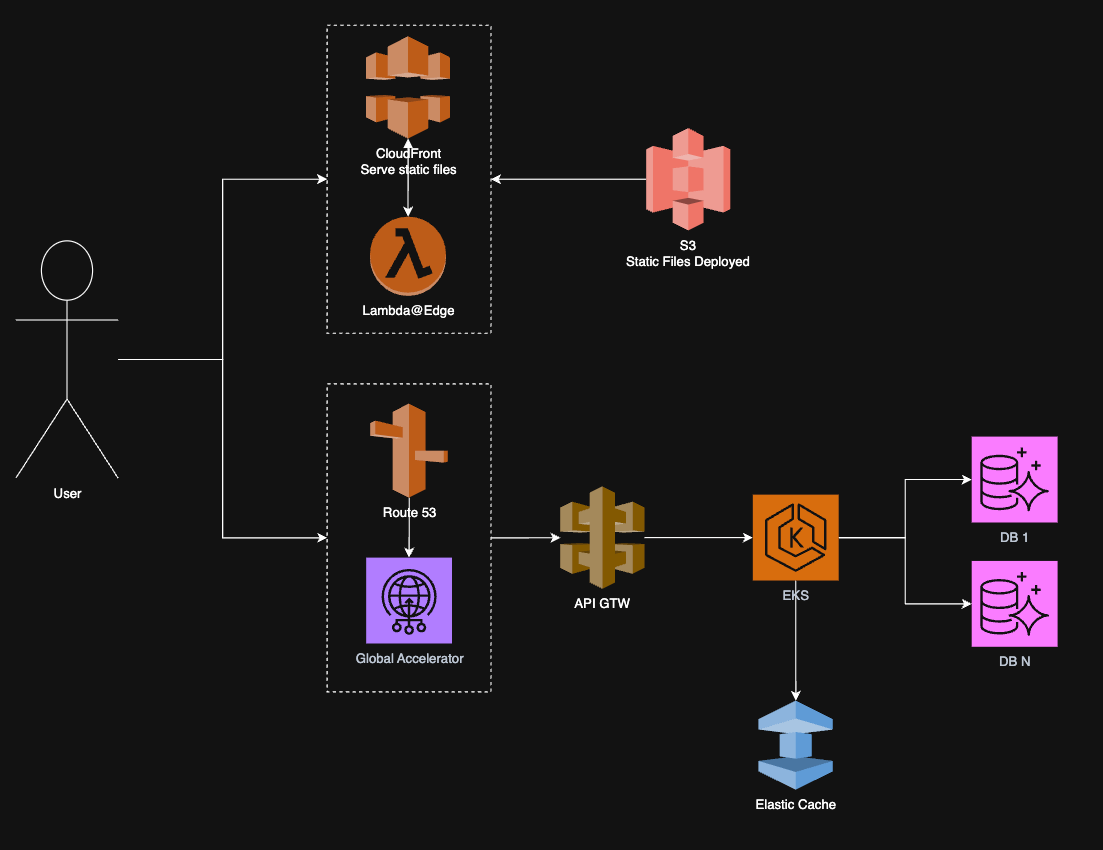
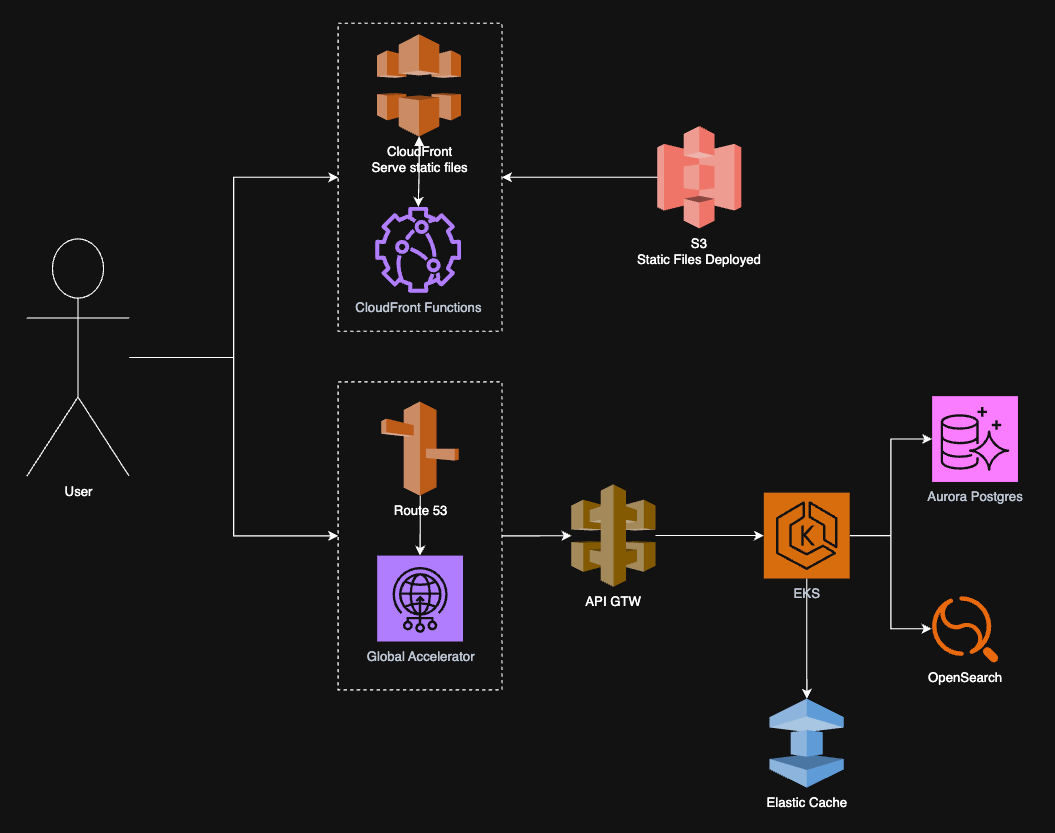
adding architecture challenge

diff --git a/architecture/latency-afficionados/architecture.md b/architecture/latency-afficionados/architecture.md
@@ -140,6 +140,11 @@ The user is capable of providing recommendation of products to users based on pr
 1. Use LLM for code generation in latest Java version in order to modernize the monolith.
 2. Use Svelte for frontend to improve UI performance and reduce latency.
 3. Use WebSockets for real-time updates and faster communication.
+4. CloudFront Functions for scenarios requiring ultra-low latency and simple JavaScript logic at the edge.
+5. Global Accelerator It is commonly used for web applications, APIs, gaming platforms, and any latency-sensitive or highly available global service.
+6. OpenSearch It would significantly improve the search experience in the marketplace while maintaining the performance standards.
+7. Aurora Postgres works best as the primary transactional database.
+8. The application uses Outbox Pattern to synchronize data from Aurora PostgreSQL to OpenSearch.
 
 ### Tradeoffs
 
@@ -198,5 +203,37 @@ The user is capable of providing recommendation of products to users based on pr
      * No native Java/Kotlin support
      * Requires separate infrastructure if using AWS for other services
      * Requires Cloudflare-specific APIs
+7. Global Accelerator
+   * ✅ PROS:
+     * Improves global application performance by routing users to the nearest healthy AWS endpoint.
+     * Increases availability with automatic failover and health checks.
+     * Supports multi-region architecture for resilience.
+     * Provides built-in DDoS protection via AWS Shield.
+     * Simplifies global traffic management with a single static IP.
+   * 🚫 CONS:
+     * Additional cost compared to standard AWS networking.
+     * Adds another layer of infrastructure to manage.
+     * Limited to AWS endpoints (not suitable for non-AWS resources).
+     * May require changes to DNS and application architecture.
+     * Some advanced routing features may not be as flexible as custom CDN or DNS solutions.
 
+[//]: # (CloudFront Functions Use Cases:)
+[//]: # (URL rewrites and redirects: Modify request URLs for routing, vanity URLs, or A/B testing.)
+[//]: # (Header manipulation: Add, remove, or modify HTTP headers for security, CORS, or custom logic.)
+[//]: # (Access control: Implement simple authentication, block/allow lists, or geo-restriction based on IP or headers.)
+[//]: # (Cache key customization: Adjust cache keys by normalizing query strings or headers.)
+[//]: # (Bot mitigation: Block or challenge known bots using user-agent or IP checks.)
+[//]: # (Basic request validation: Quickly reject malformed or unauthorized requests before reaching the origin.)
 
+[//]: # (Global Accelerator Use Cases:)
+[//]: # (Low-latency global access: Directs users to the nearest healthy AWS region or endpoint, reducing latency for global users.)
+[//]: # (High availability: Automatically reroutes traffic away from unhealthy endpoints to healthy ones, improving application uptime.)
+[//]: # (Disaster recovery: Supports failover between AWS Regions for business continuity.)
+[//]: # (Multi-region active-active architectures: Balances traffic across multiple AWS Regions for better performance and resilience.)
+[//]: # (DDoS protection: Leverages AWS Shield for built-in DDoS mitigation.)
+
+[//]: # (OpenSearch Use Cases:)
+[//]: # (Product Search: Lightning-fast full-text search across game titles, descriptions, filters, price, recomendations.)
+[//]: # (Recomendations: recommendations based on attributes and user behavior, Identify trending games through search behavior analysis.)
+[//]: # (Review and Rating Analysis: Search within reviews and comments.)
+[//]: # (Performance Benefits: Sub-10ms query performance even with complex filtering.)
